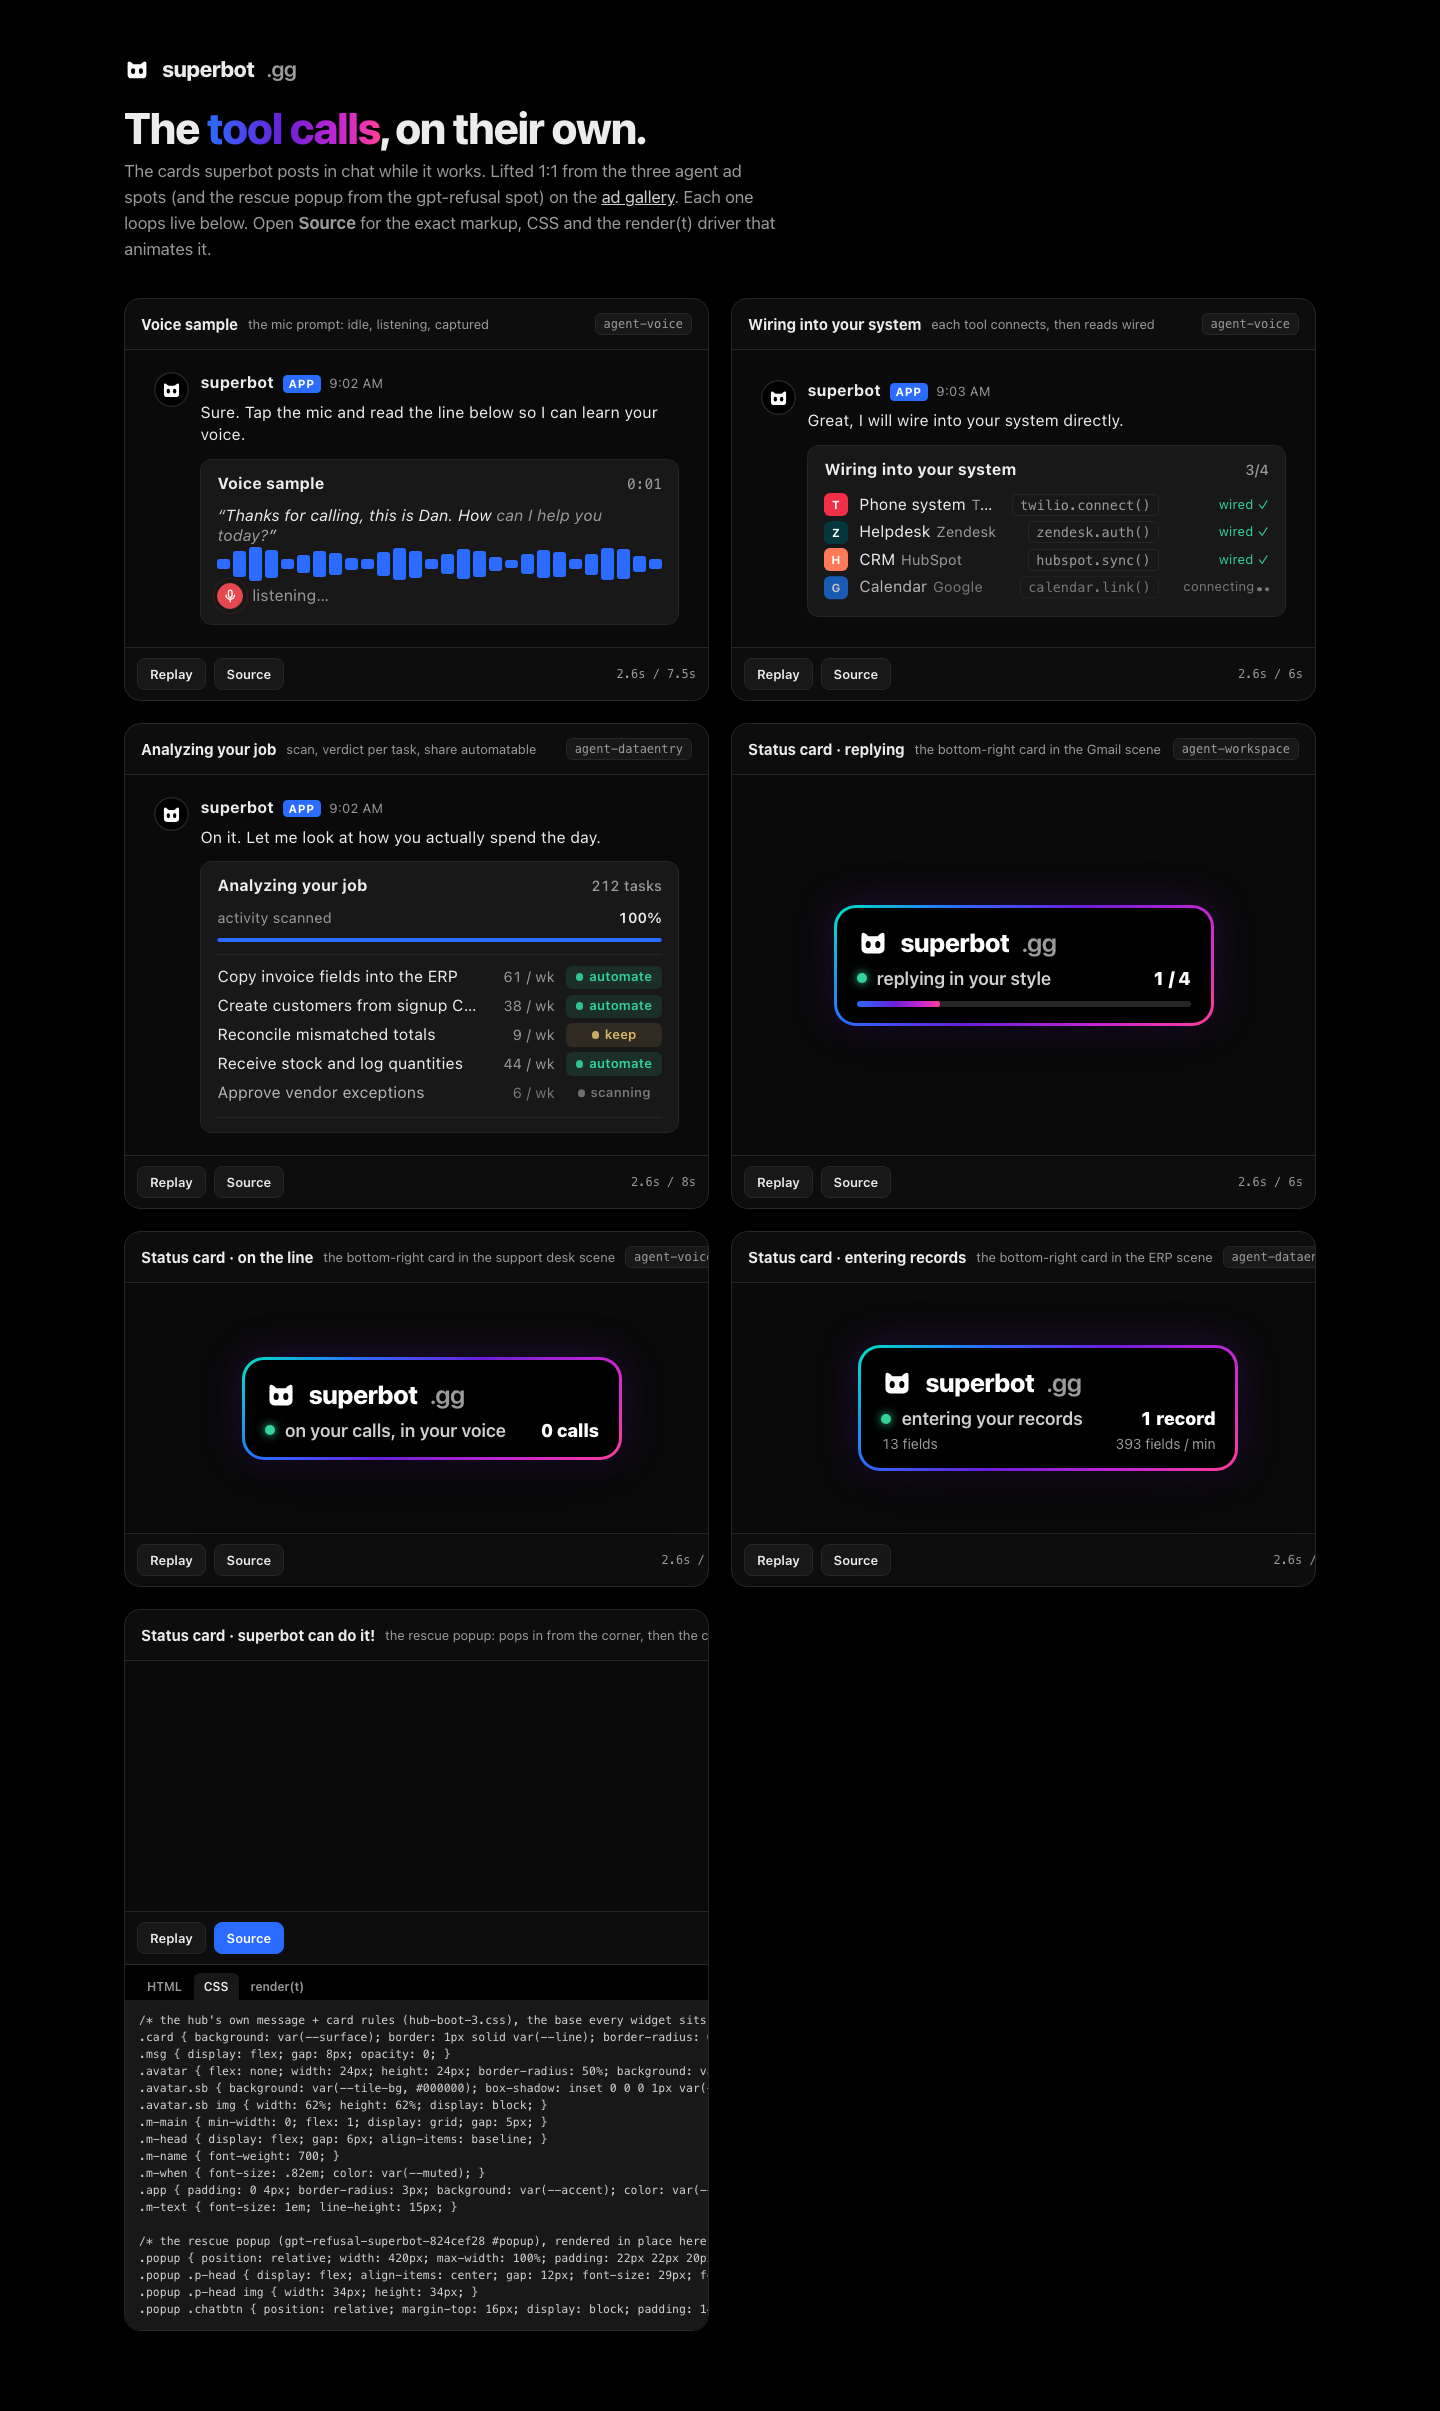
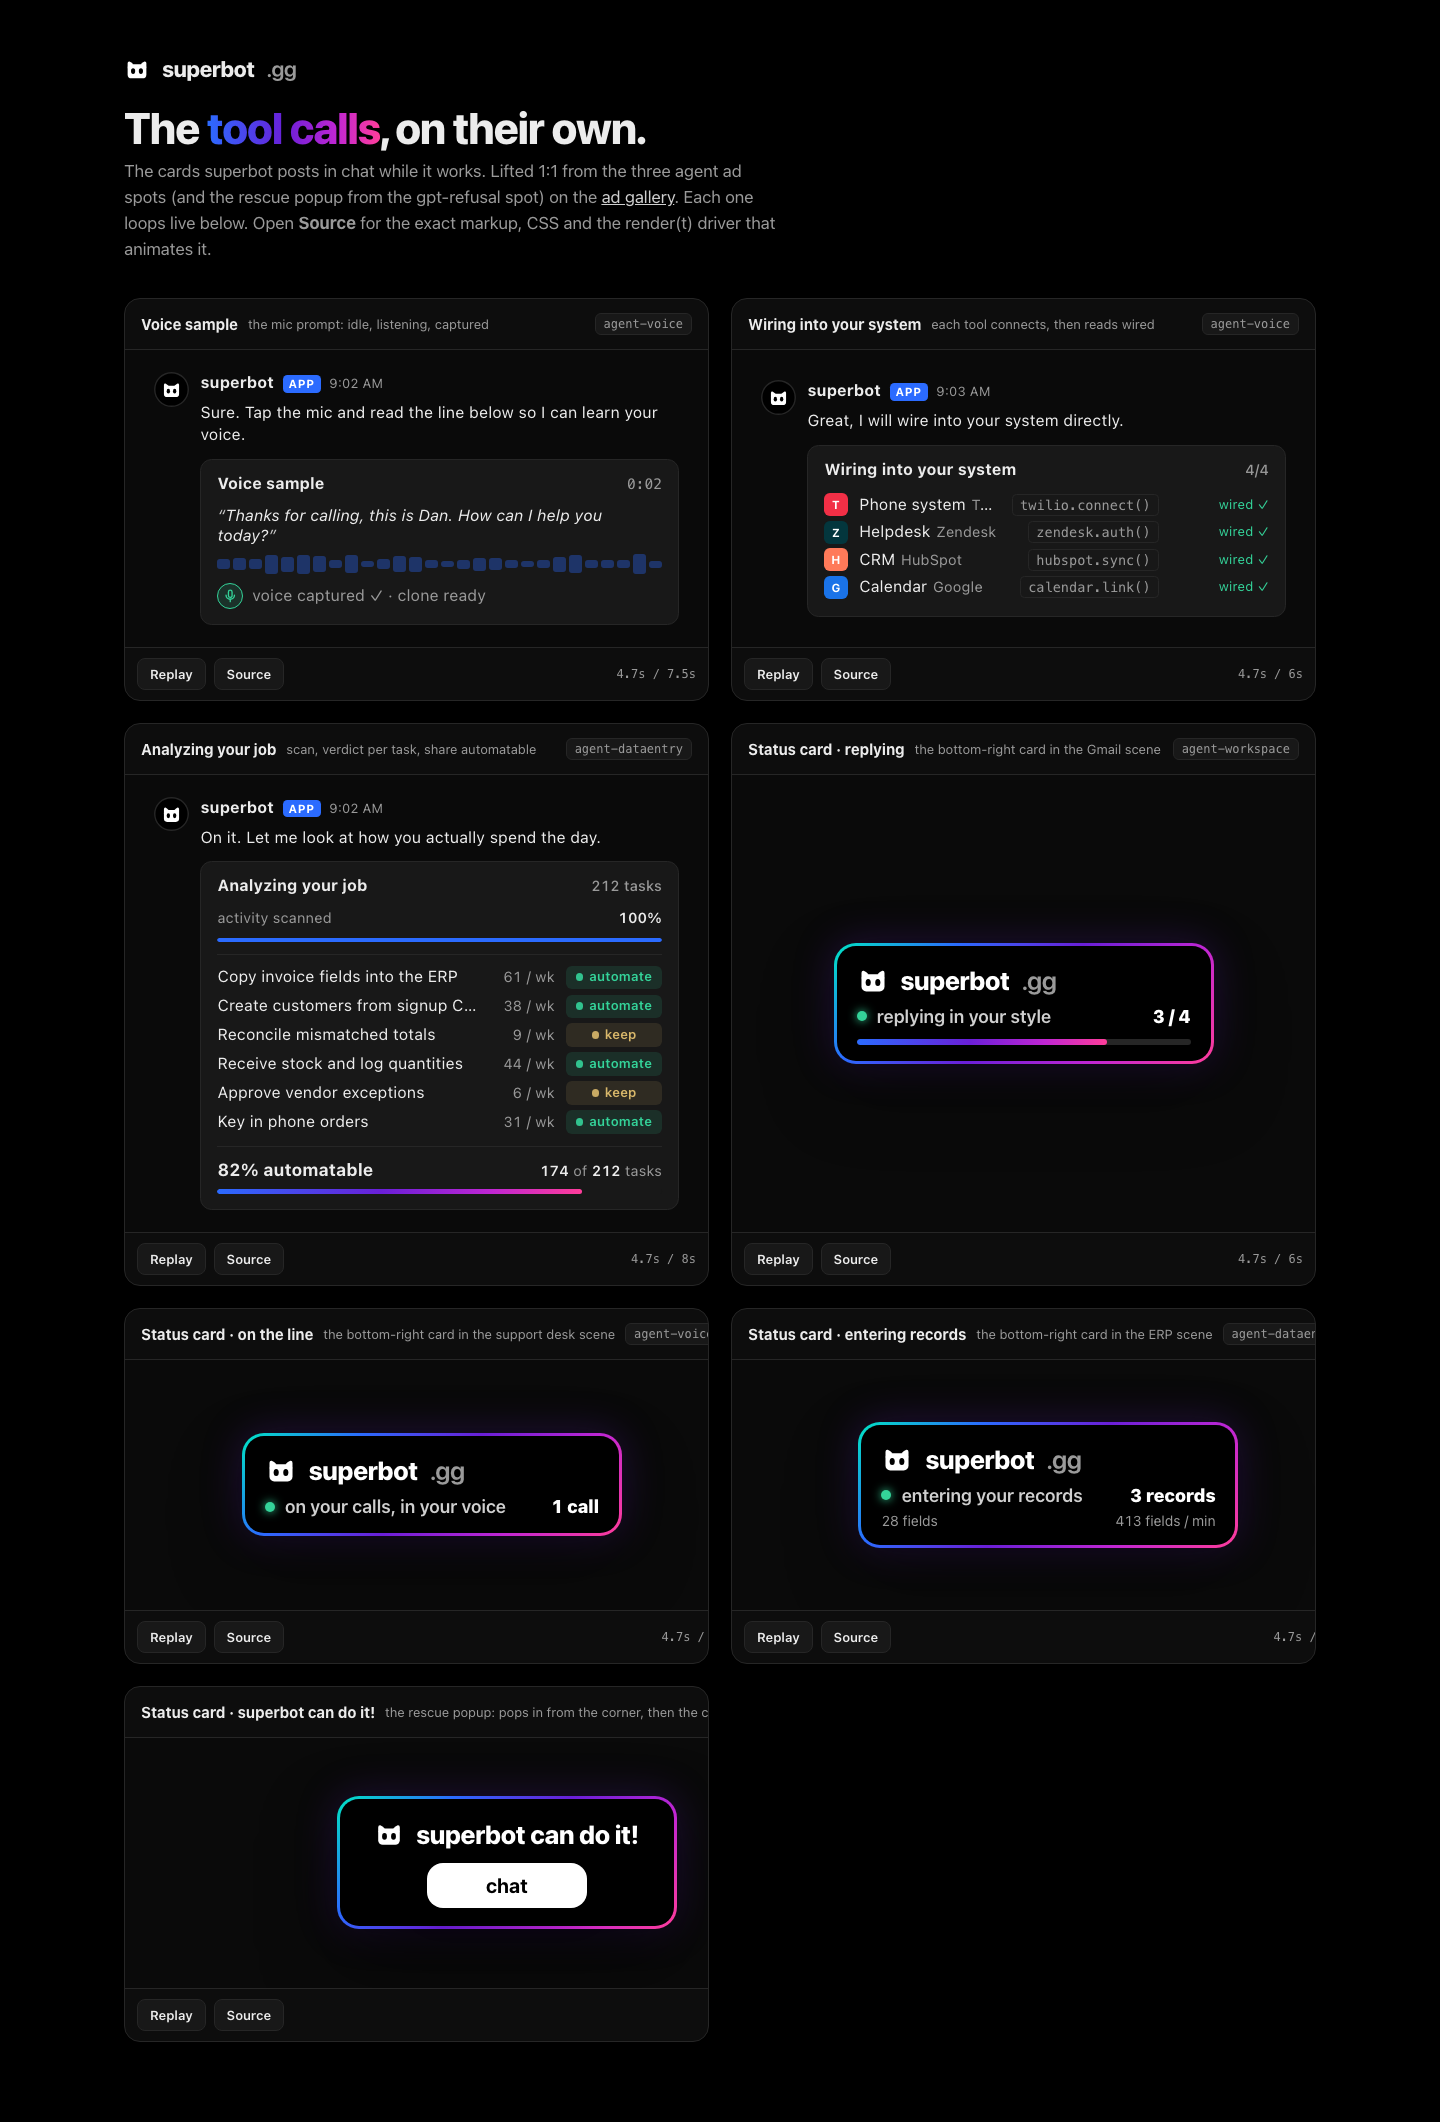
ship page + referenced assets (gh-pages-ship)

diff --git a/index.html b/index.html
@@ -40,7 +40,7 @@ a { color: inherit; }
 .tile .th b { font-size: 15px; white-space: nowrap; }
 .tile .th small { flex: 1 1 auto; color: var(--muted); font-size: 13px; min-width: 0; overflow: hidden; text-overflow: ellipsis; white-space: nowrap; }
 .tile .th .from { margin-left: auto; font: 500 12px/20px var(--font-mono); color: var(--muted); padding: 0 8px; border-radius: 6px; background: var(--raised); border: 1px solid var(--line); white-space: nowrap; }
-.tile .stage { padding: 22px 20px; min-height: 250px; display: grid; place-items: center; background: #0a0a0a; }
+.tile .stage { padding: 22px 20px; min-height: 250px; display: grid; place-items: center; justify-items: center; background: #0a0a0a; overflow: hidden; }
 .tile .tf { display: flex; align-items: center; gap: 8px; padding: 10px 12px; border-top: 1px solid var(--line); }
 .tile .tf .btn { height: 32px; padding: 0 12px; border-radius: 8px; border: 1px solid var(--line); background: var(--raised); color: var(--fg); font: 600 13px/30px var(--ui); cursor: pointer; }
 .tile .tf .btn:hover { border-color: var(--accent); }
@@ -129,10 +129,10 @@ a { color: inherit; }
 .agent .bar i { display: block; height: 100%; width: 0; border-radius: 3px; background: var(--storm-x); }
 .agent .p-sub { margin-top: 6px; font-size: 14px; color: var(--muted); display: flex; justify-content: space-between; font-variant-numeric: tabular-nums; }
 /* ---------- the rescue popup (gpt-refusal-superbot-824cef28 #popup), rendered in place here (the ad pins it to the frame bottom-right) ---------- */
-.popup { position: relative; width: 420px; max-width: 100%; padding: 22px 22px 20px; border-radius: 22px; border: 3px solid transparent; background: linear-gradient(#000, #000) padding-box, var(--storm) border-box; box-shadow: 0 30px 70px rgba(0,0,0,.6), 0 0 40px rgba(106,31,216,.25); transform-origin: 100% 100%; font-family: var(--ui); }
-.popup .p-head { display: flex; align-items: center; gap: 12px; font-size: 29px; font-weight: 800; letter-spacing: -.02em; color: #fff; }
-.popup .p-head img { width: 34px; height: 34px; }
-.popup .chatbtn { position: relative; margin-top: 16px; display: block; padding: 14px 18px; border-radius: 18px; background: #fff; color: #000; font-size: 24px; font-weight: 700; text-align: center; transform-origin: 50% 50%; box-shadow: 0 8px 24px rgba(0,0,0,.35); }
+.popup { position: relative; width: 340px; max-width: 100%; margin: 0 auto; justify-self: center; padding: 20px 22px 18px; border-radius: 22px; border: 3px solid transparent; background: linear-gradient(#000, #000) padding-box, var(--storm) border-box; box-shadow: 0 30px 70px rgba(0,0,0,.6), 0 0 40px rgba(106,31,216,.25); transform-origin: 50% 50%; font-family: var(--ui); }
+.popup .p-head { display: flex; align-items: center; justify-content: center; gap: 12px; font-size: 26px; font-weight: 800; letter-spacing: -.02em; color: #fff; }
+.popup .p-head img { width: 30px; height: 30px; }
+.popup .chatbtn { position: relative; margin: 14px auto 0; display: block; width: 160px; padding: 11px 18px; border-radius: 16px; background: #fff; color: #000; font-size: 20px; font-weight: 700; text-align: center; transform-origin: 50% 50%; box-shadow: 0 8px 24px rgba(0,0,0,.35); }
 </style>
 </head>
 <body>
@@ -299,7 +299,7 @@ const COMPONENTS = [
       const lerp = (a, b, p) => a + (b - a) * p;
       const pp = seg(t, 0.3, 0.75), press = t >= 3.2 && t < 3.35 ? 1 : t >= 3.35 ? 1 - seg(t, 3.35, 3.53) : 0;
       this.root.style.opacity = String(clamp01(pp * 2));
-      this.root.style.transform = `translate(${((1 - outBack(pp)) * 30).toFixed(1)}px, ${((1 - outBack(pp)) * 60).toFixed(1)}px) scale(${lerp(0.9, 1, outBack(pp)).toFixed(3)})`;
+      this.root.style.transform = `translateY(${((1 - outBack(pp)) * 24).toFixed(1)}px) scale(${lerp(0.9, 1, outBack(pp)).toFixed(3)})`;
       this.$.btn.style.transform = `scale(${(1 - 0.05 * press).toFixed(3)})`;
     },
   },
